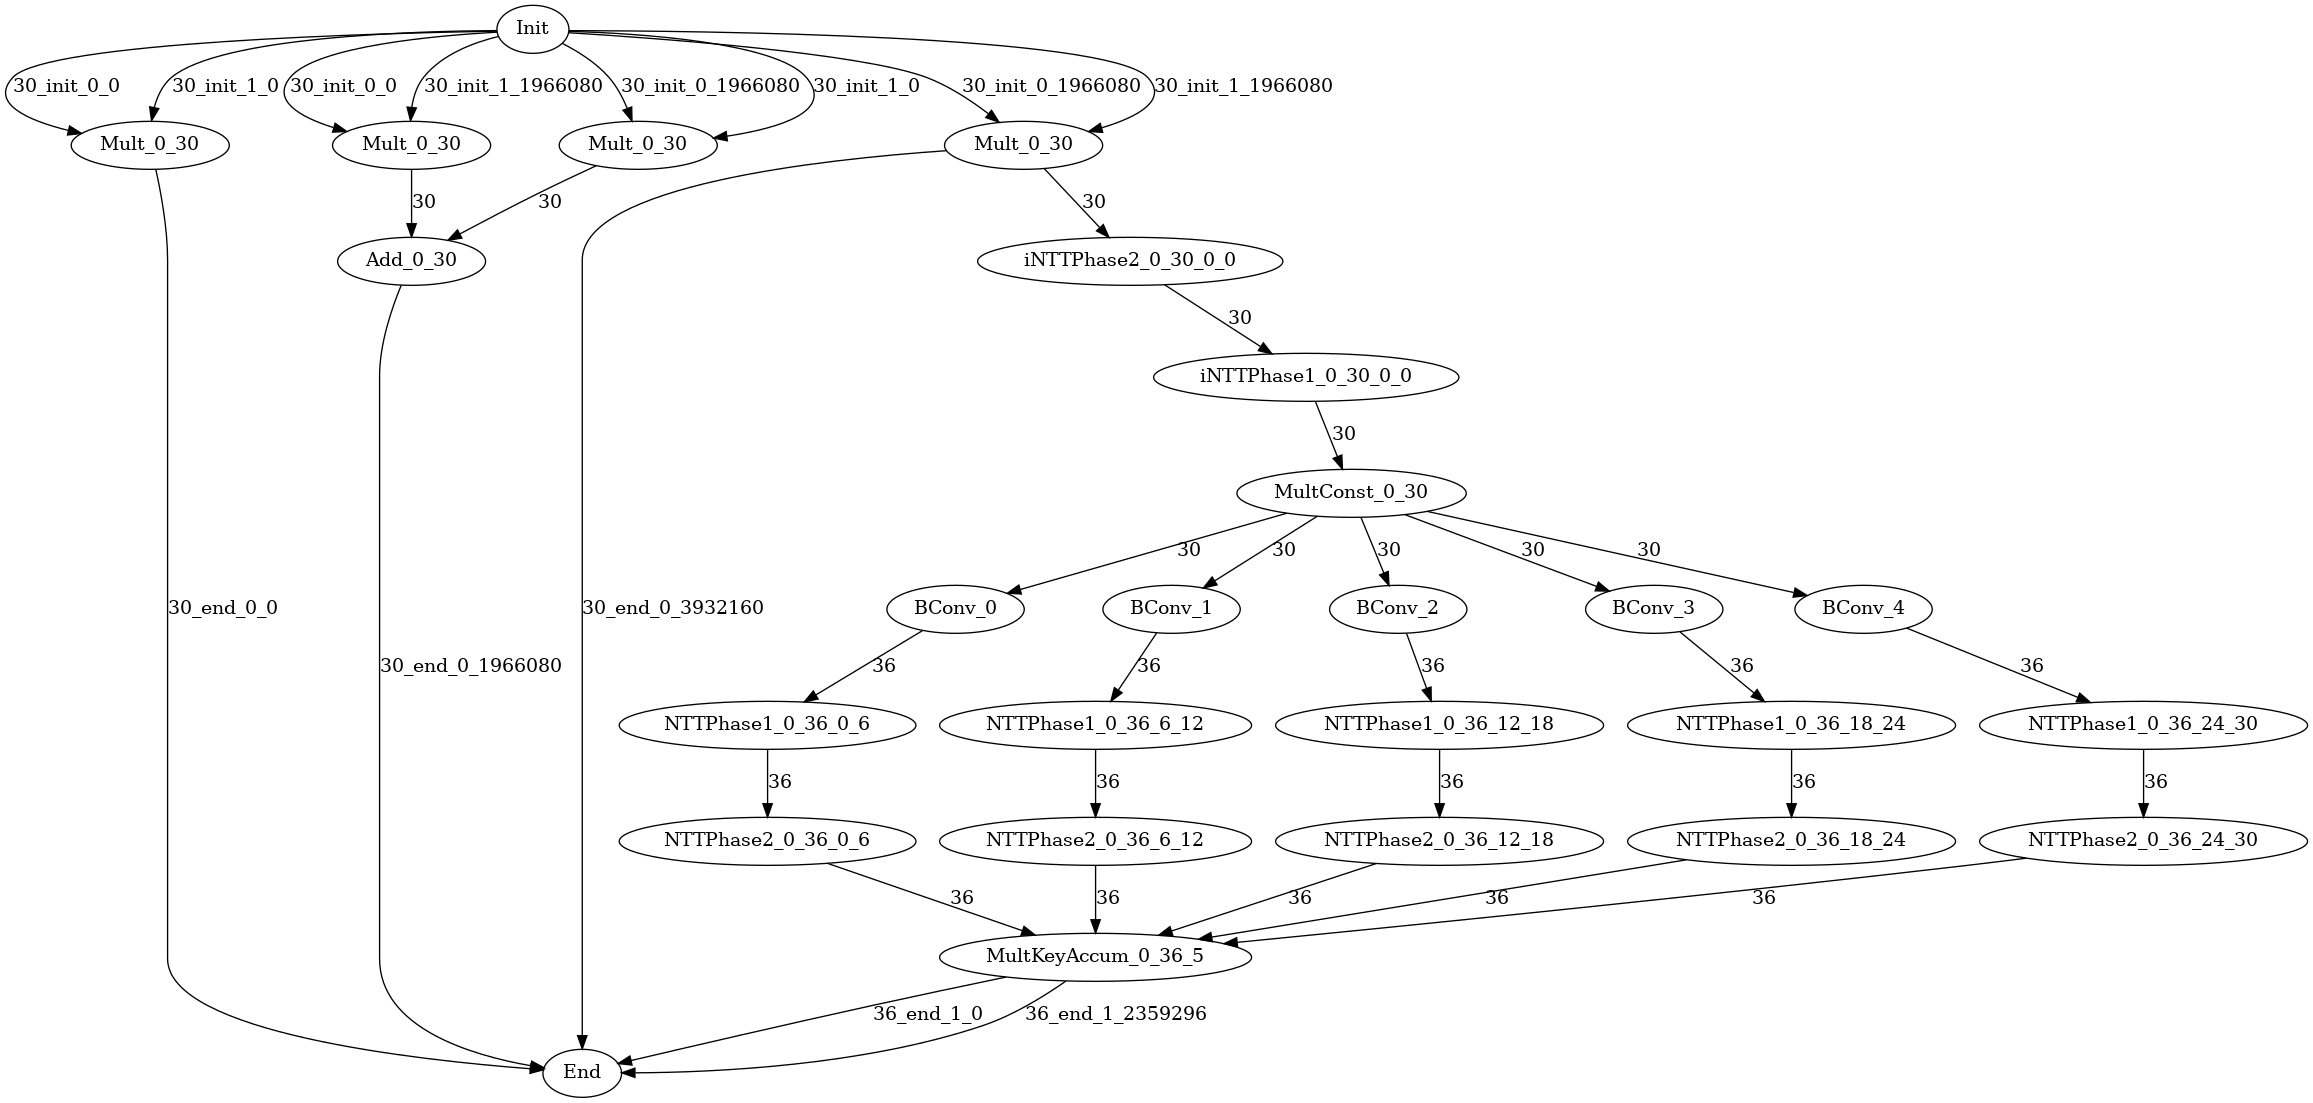
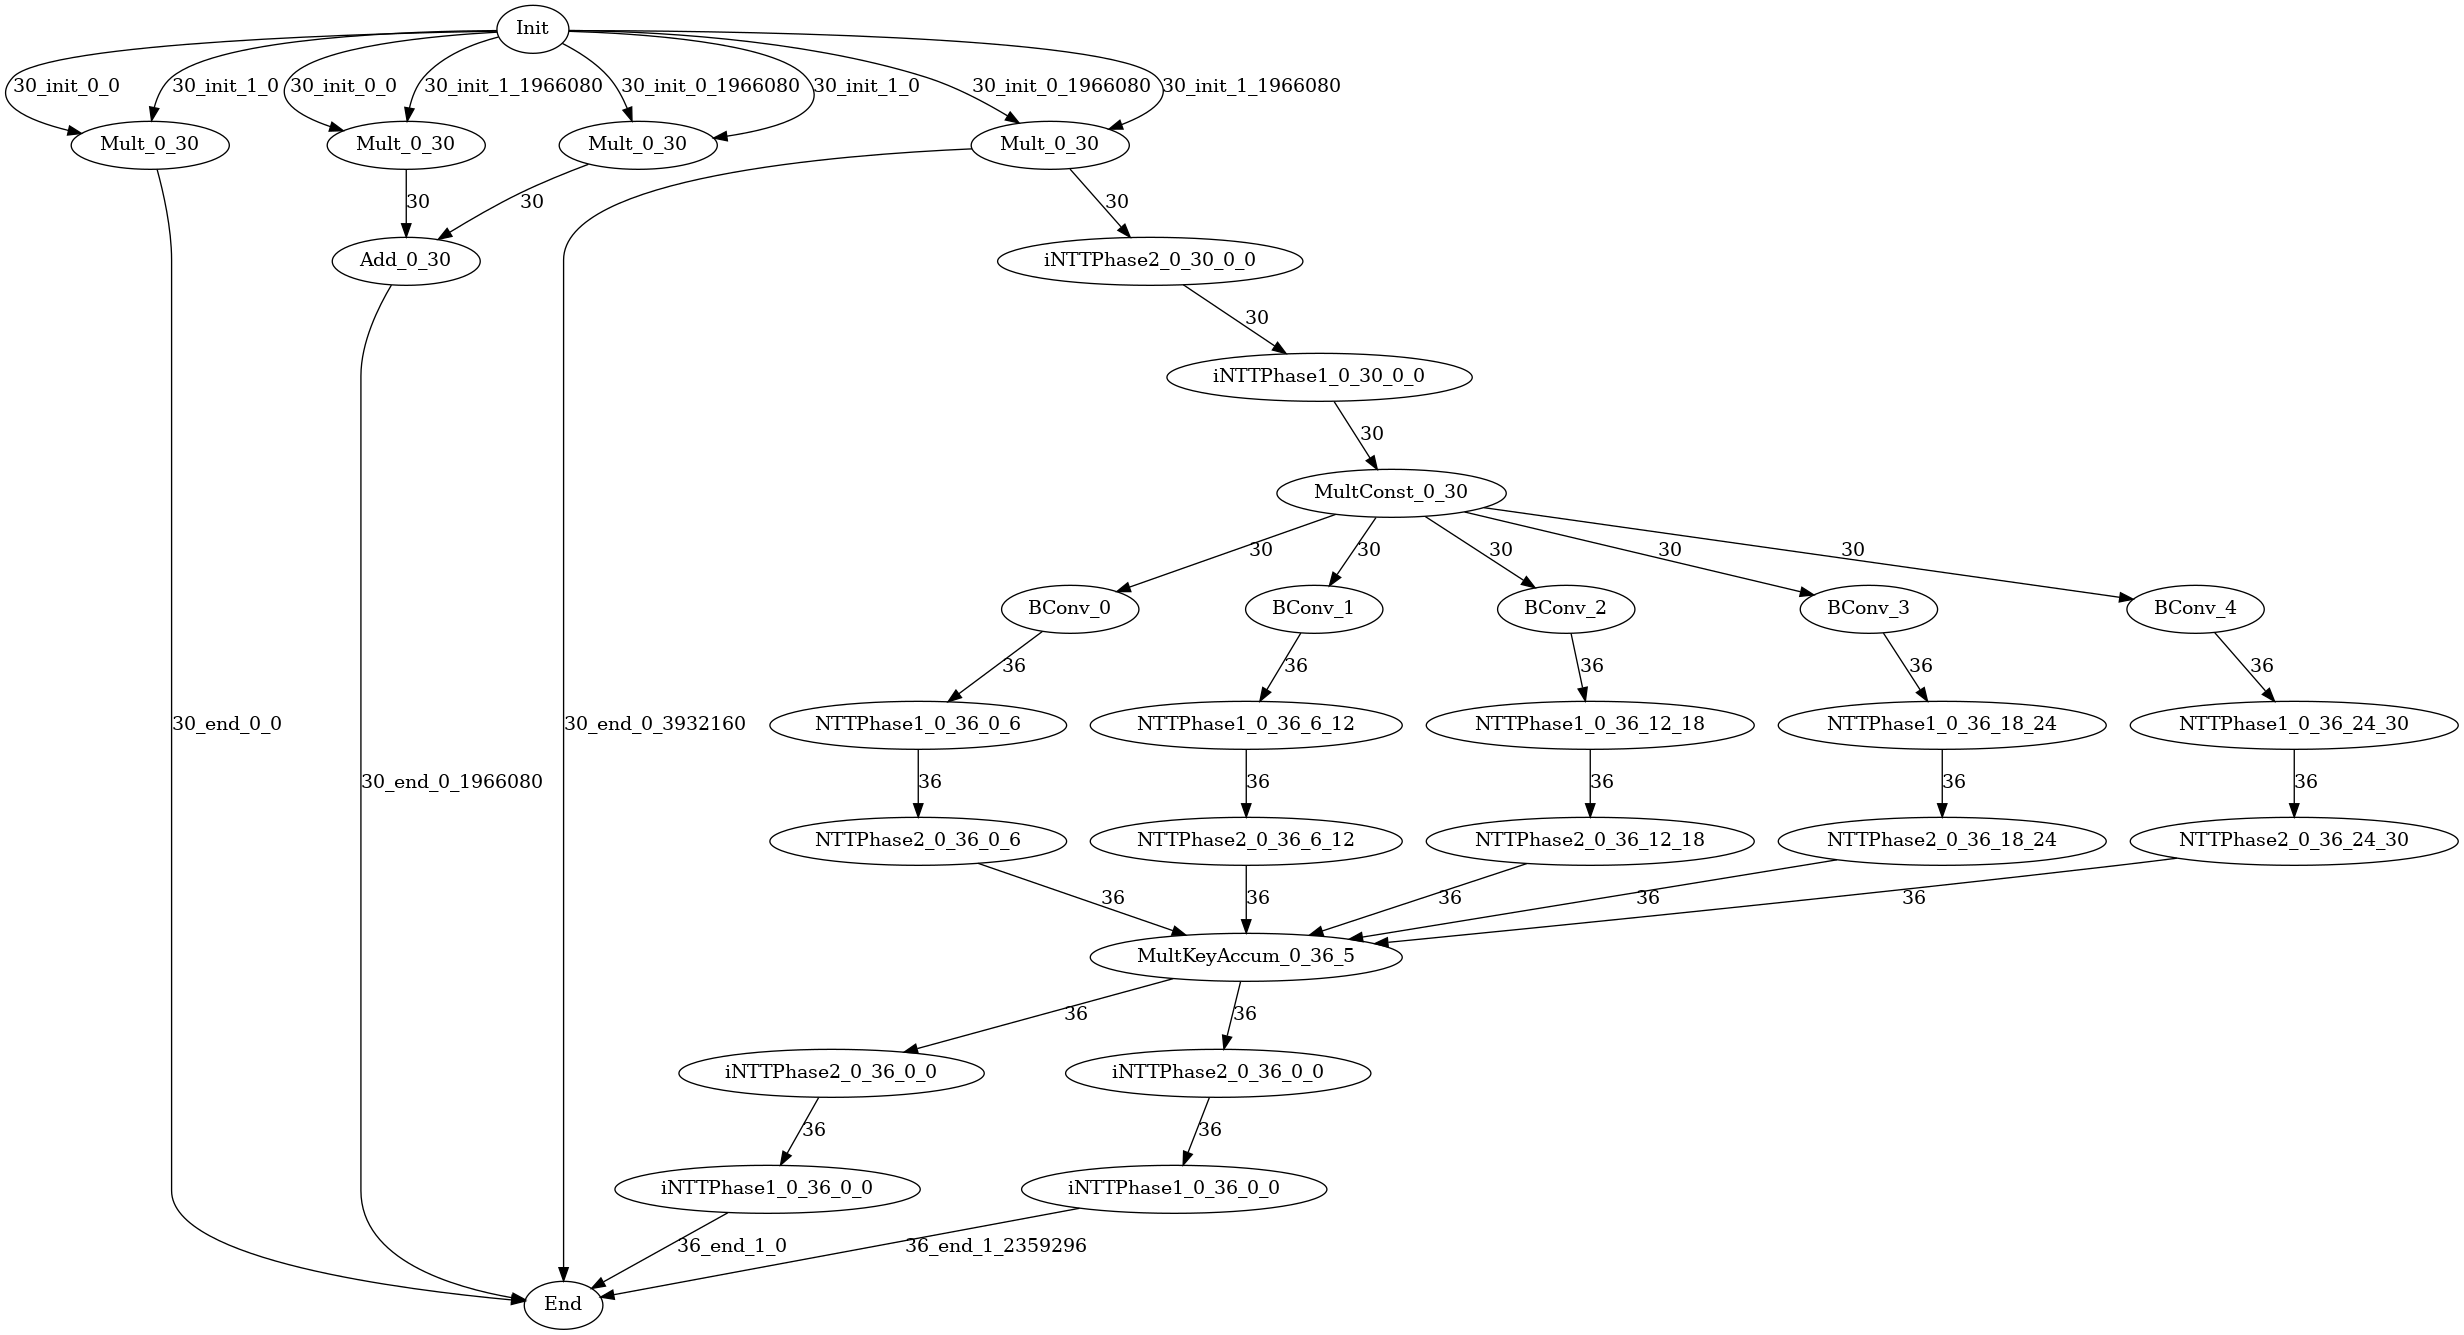
add CheckEdgeSamePass

diff --git a/example/ckks_HMult/example.py b/example/ckks_HMult/example.py
@@ -64,36 +64,54 @@ for beta_idx in range(prm.get_beta(prm.L - 1)):
         exclude_end=prm.alpha * (beta_idx + 1),
     )
     accum_list.append(nttp2_after_bconv)
-    """
-    mulkey_ax = pf.mul_key(
-        nttp2_after_bconv,
-        f"MulKeyAx{beta_idx}",
-        start_limb=0,
-        end_limb=prm.L + prm.K,
-    )
-    mulkey_bx = pf.mul_key(
-        nttp2_after_bconv,
-        f"MulKeyBx{beta_idx}",
-        start_limb=0,
-        end_limb=prm.L + prm.K,
-    )
-    accum_ax_list.append(mulkey_ax)
-    accum_bx_list.append(mulkey_bx)
-    """
-    """
-    res = pf.end(nttp2_after_bconv, 1, prm.N * (prm.L + prm.K) * beta_idx)
-    target.append(res)
-    """
-
-"""
-accum_ax = pf.accum(accum_ax_list, "AccumAx", start_limb=0, end_limb=prm.L + prm.K)
-accum_bx = pf.accum(accum_bx_list, "AccumBx", start_limb=0, end_limb=prm.L + prm.K)
-"""
 
 accum = pf.mul_key_accum(accum_list, "MultKeyAccum", start_limb=0, end_limb=prm.L + prm.K, beta=prm.get_beta(prm.L - 1))
+inttp2_ax = pf.ntt(
+    accum,
+    "INTT_Ax",
+    if_forward=False,
+    if_phase1=False,
+    start_limb=0,
+    end_limb=prm.L + prm.K,
+    exclude_start=0,
+    exclude_end=0,
+)
+inttp1_ax = pf.ntt(
+    inttp2_ax,
+    "INTT1_Ax",
+    if_forward=False,
+    if_phase1=True,
+    start_limb=0,
+    end_limb=prm.L + prm.K,
+    exclude_start=0,
+    exclude_end=0,
+)
+inttp2_bx = pf.ntt(
+    accum,
+    "INTT_Bx",
+    if_forward=False,
+    if_phase1=False,
+    start_limb=0,
+    end_limb=prm.L + prm.K,
+    exclude_start=0,
+    exclude_end=0,
+)
+inttp1_bx = pf.ntt(
+    inttp2_bx,
+    "INTT1_Bx",
+    if_forward=False,
+    if_phase1=True,
+    start_limb=0,
+    end_limb=prm.L + prm.K,
+    exclude_start=0,
+    exclude_end=0,
+)
+res_ax = pf.end(inttp1_ax, 1, 0)
+res_bx = pf.end(inttp1_bx, 1, prm.N * (prm.L + prm.K))
+"""
 res_ax = pf.end(accum, 1, 0)
 res_bx = pf.end(accum, 1, prm.N * (prm.L + prm.K))
-
+"""
 res_axax = pf.end(mult_axax, 0, 0)
 res_axbx = pf.end(add_axbx, 0, prm.N * prm.L)
 res_bxbx = pf.end(mult_bxbx, 0, prm.N * prm.L * 2)

diff --git a/polyfhe/tools/polyfhe.cpp b/polyfhe/tools/polyfhe.cpp
@@ -8,6 +8,7 @@
 #include "polyfhe/engine/pass/calculate_memory_traffic_pass.hpp"
 #include "polyfhe/engine/pass/calculate_smem_size_pass.hpp"
 #include "polyfhe/engine/pass/check_edge_overwrite_pass.hpp"
+#include "polyfhe/engine/pass/check_edge_same_pass.hpp"
 #include "polyfhe/engine/pass/check_subgraph_dependencies_pass.hpp"
 #include "polyfhe/engine/pass/data_reuse_pass.hpp"
 #include "polyfhe/engine/pass/extract_subgraph_pass.hpp"
@@ -127,6 +128,8 @@ int main(int argc, char** argv) {
             std::make_shared<polyfhe::engine::CalculateSmemSizePass>());
         pass_manager.push_back(
             std::make_shared<polyfhe::engine::CheckSubgraphDependenciesPass>());
+        pass_manager.push_back(
+            std::make_shared<polyfhe::engine::CheckEdgeSamePass>());
         pass_manager.push_back(
             std::make_shared<polyfhe::engine::CheckEdgeOverwritePass>());
     }

diff --git a/polyfhe/engine/pass/check_edge_same_pass.cpp b/polyfhe/engine/pass/check_edge_same_pass.cpp
@@ -1,0 +1,28 @@
+#include "polyfhe/engine/pass/check_edge_same_pass.hpp"
+
+#include <climits>
+#include <iostream>
+
+namespace polyfhe {
+namespace engine {
+bool CheckEdgeSamePass::run_on_graph(
+    std::shared_ptr<polyfhe::core::Graph>& graph) {
+    LOG_INFO("Running CheckEdgeSamePass\n");
+
+    std::vector<std::shared_ptr<polyfhe::core::SubGraph>> subgraphs =
+        graph->get_subgraphs();
+    for (auto sgraph : subgraphs) {
+        for (auto node : sgraph->get_nodes()) {
+            const int n_outedges = node->get_out_edges().size();
+            if (n_outedges >= 2) {
+                auto outedge_0 = node->get_out_edges()[0];
+                for (int i = 1; i < n_outedges; i++) {
+                    node->get_out_edges()[i]->set_same_edge(outedge_0);
+                }
+            }
+        }
+    }
+    return true;
+}
+} // namespace engine
+} // namespace polyfhe

diff --git a/polyfhe/engine/pass/check_edge_same_pass.hpp b/polyfhe/engine/pass/check_edge_same_pass.hpp
@@ -1,0 +1,13 @@
+#pragma once
+
+#include "polyfhe/engine/pass/pass_base.hpp"
+
+namespace polyfhe {
+namespace engine {
+class CheckEdgeSamePass : public PassBase {
+public:
+    bool run_on_graph(std::shared_ptr<polyfhe::core::Graph>& graph) override;
+    std::string get_name() override { return "CheckEdgeSamePass"; }
+};
+} // namespace engine
+} // namespace polyfhe

diff --git a/polyfhe/engine/pass/check_edge_overwrite_pass.cpp b/polyfhe/engine/pass/check_edge_overwrite_pass.cpp
@@ -18,6 +18,7 @@ bool CheckEdgeOverwritePass::run_on_graph(
                 if (outedge->get_level() != polyfhe::core::EdgeLevel::Global) {
                     continue;
                 }
+
                 auto dst = node->get_out_edges()[0]->get_dst();
                 if (dst->get_op_type() == polyfhe::core::OpType::End) {
                     continue;
